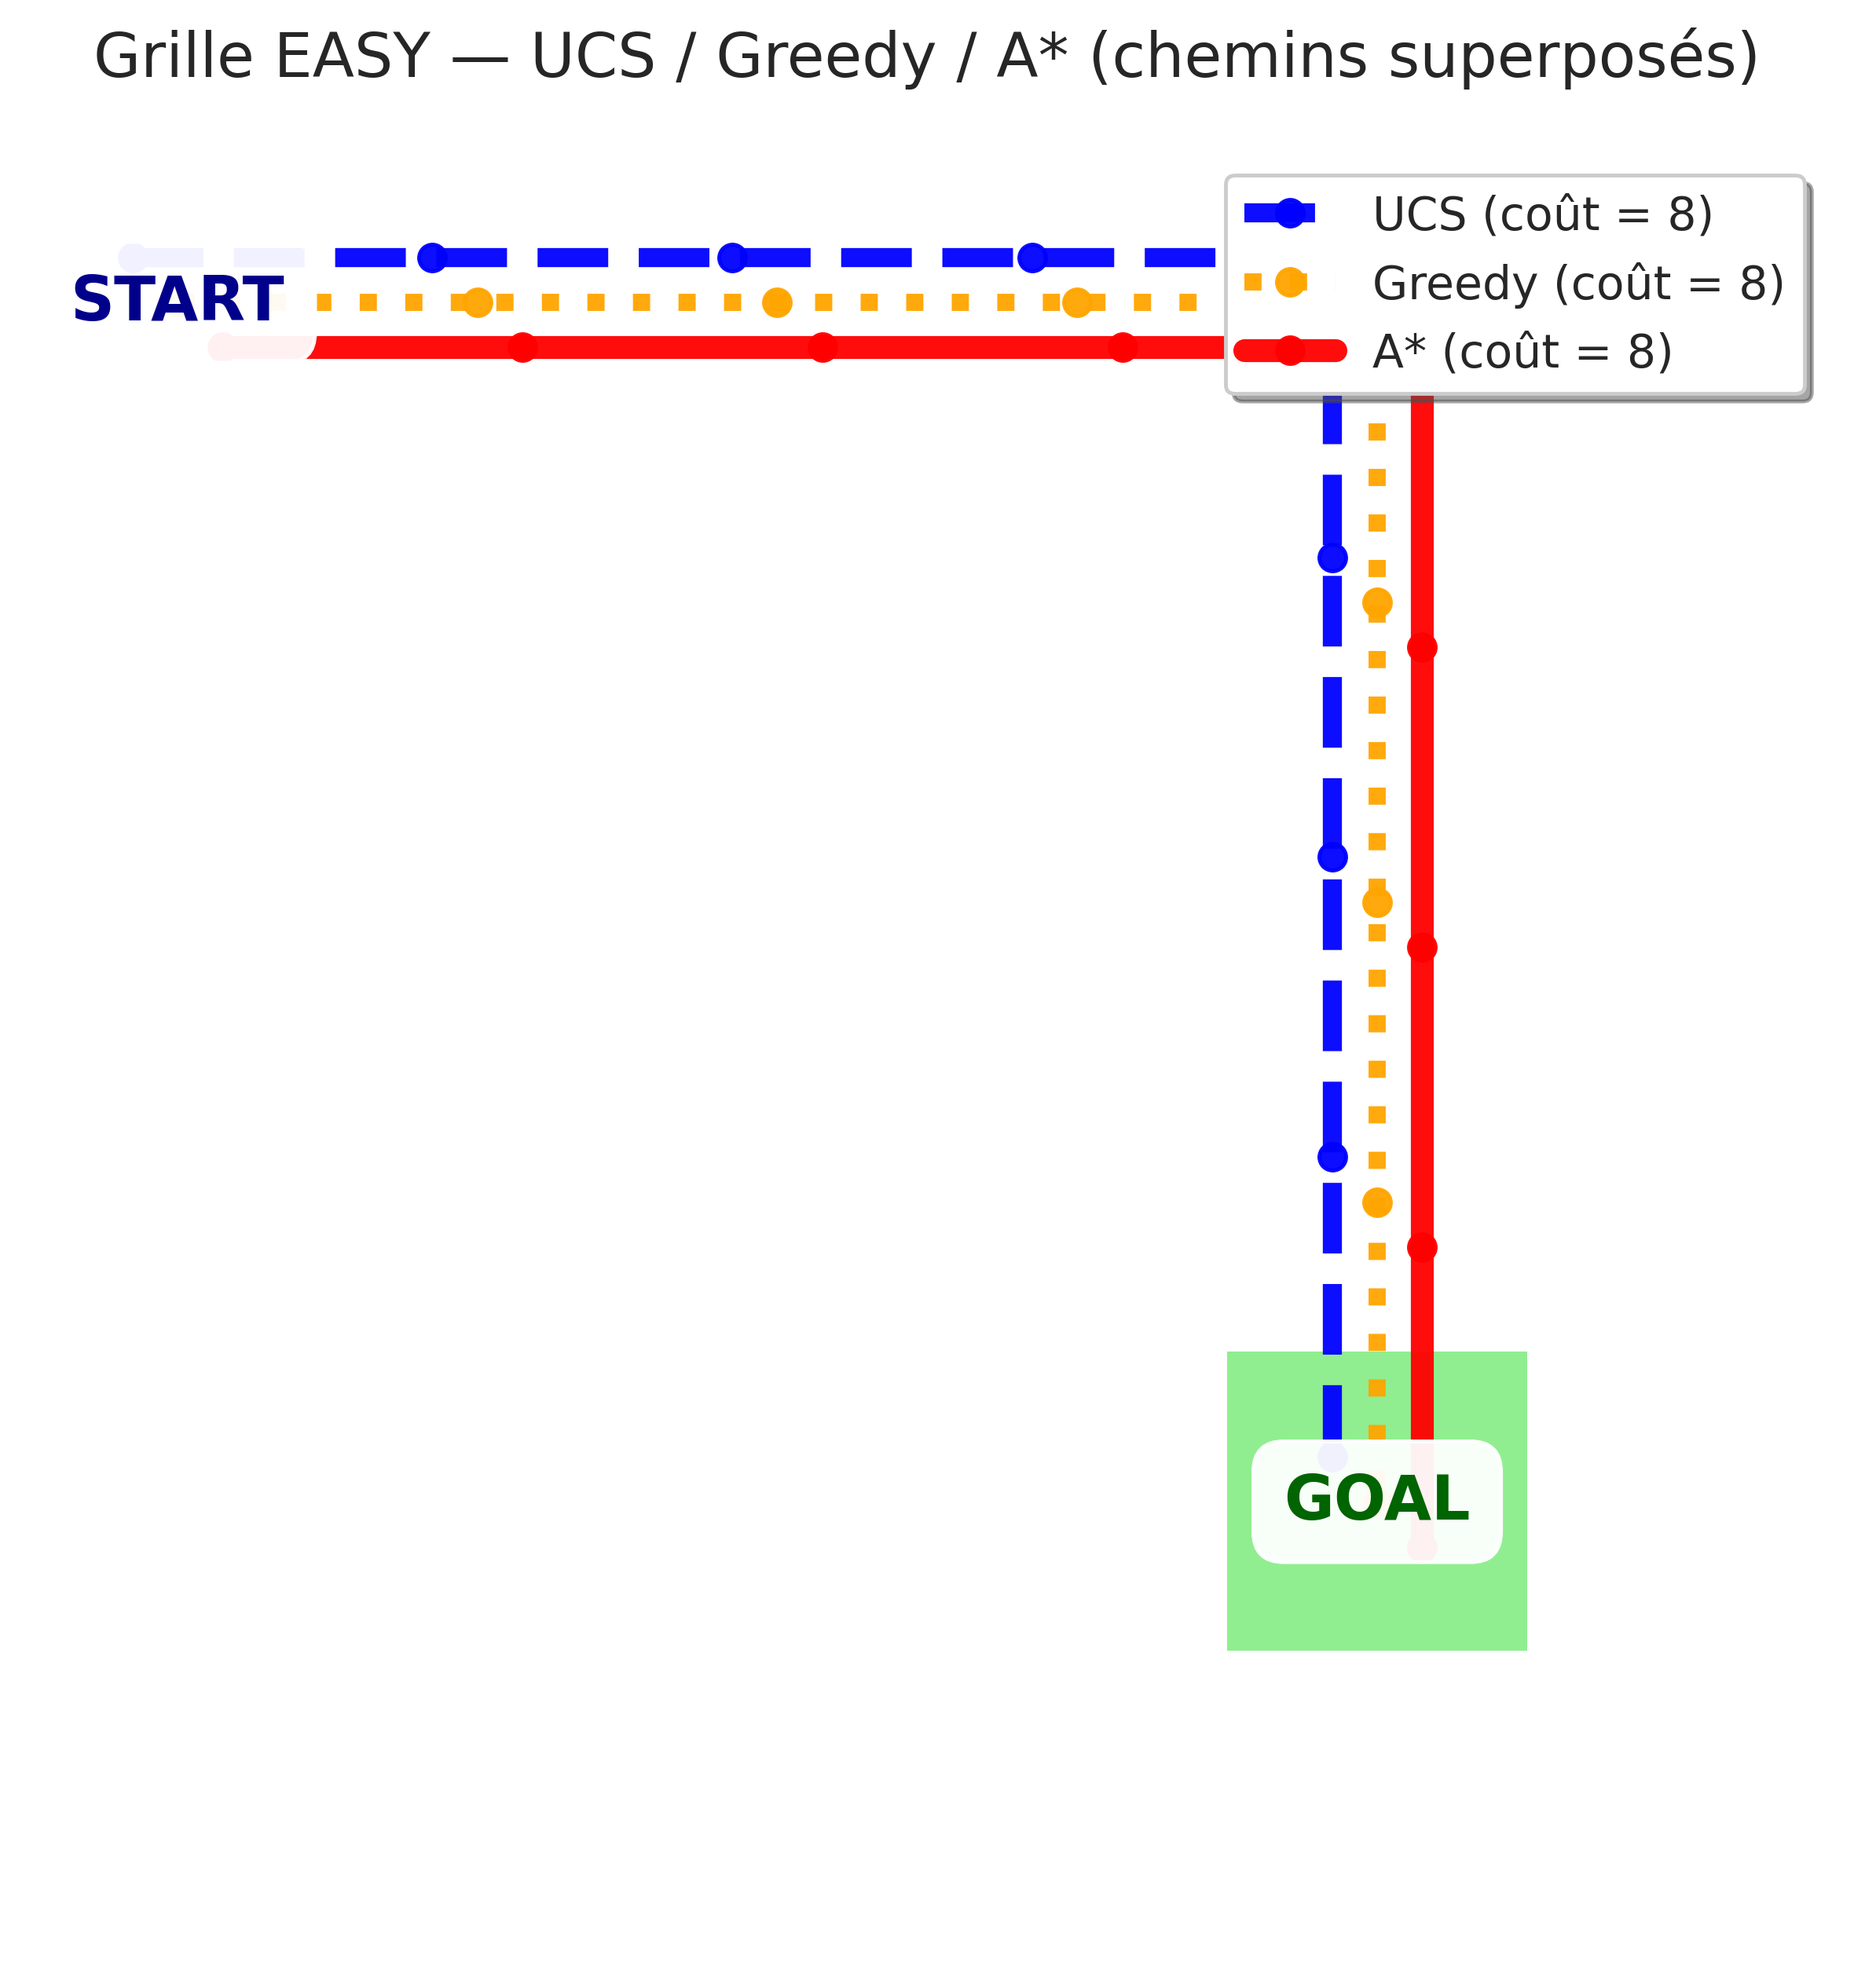
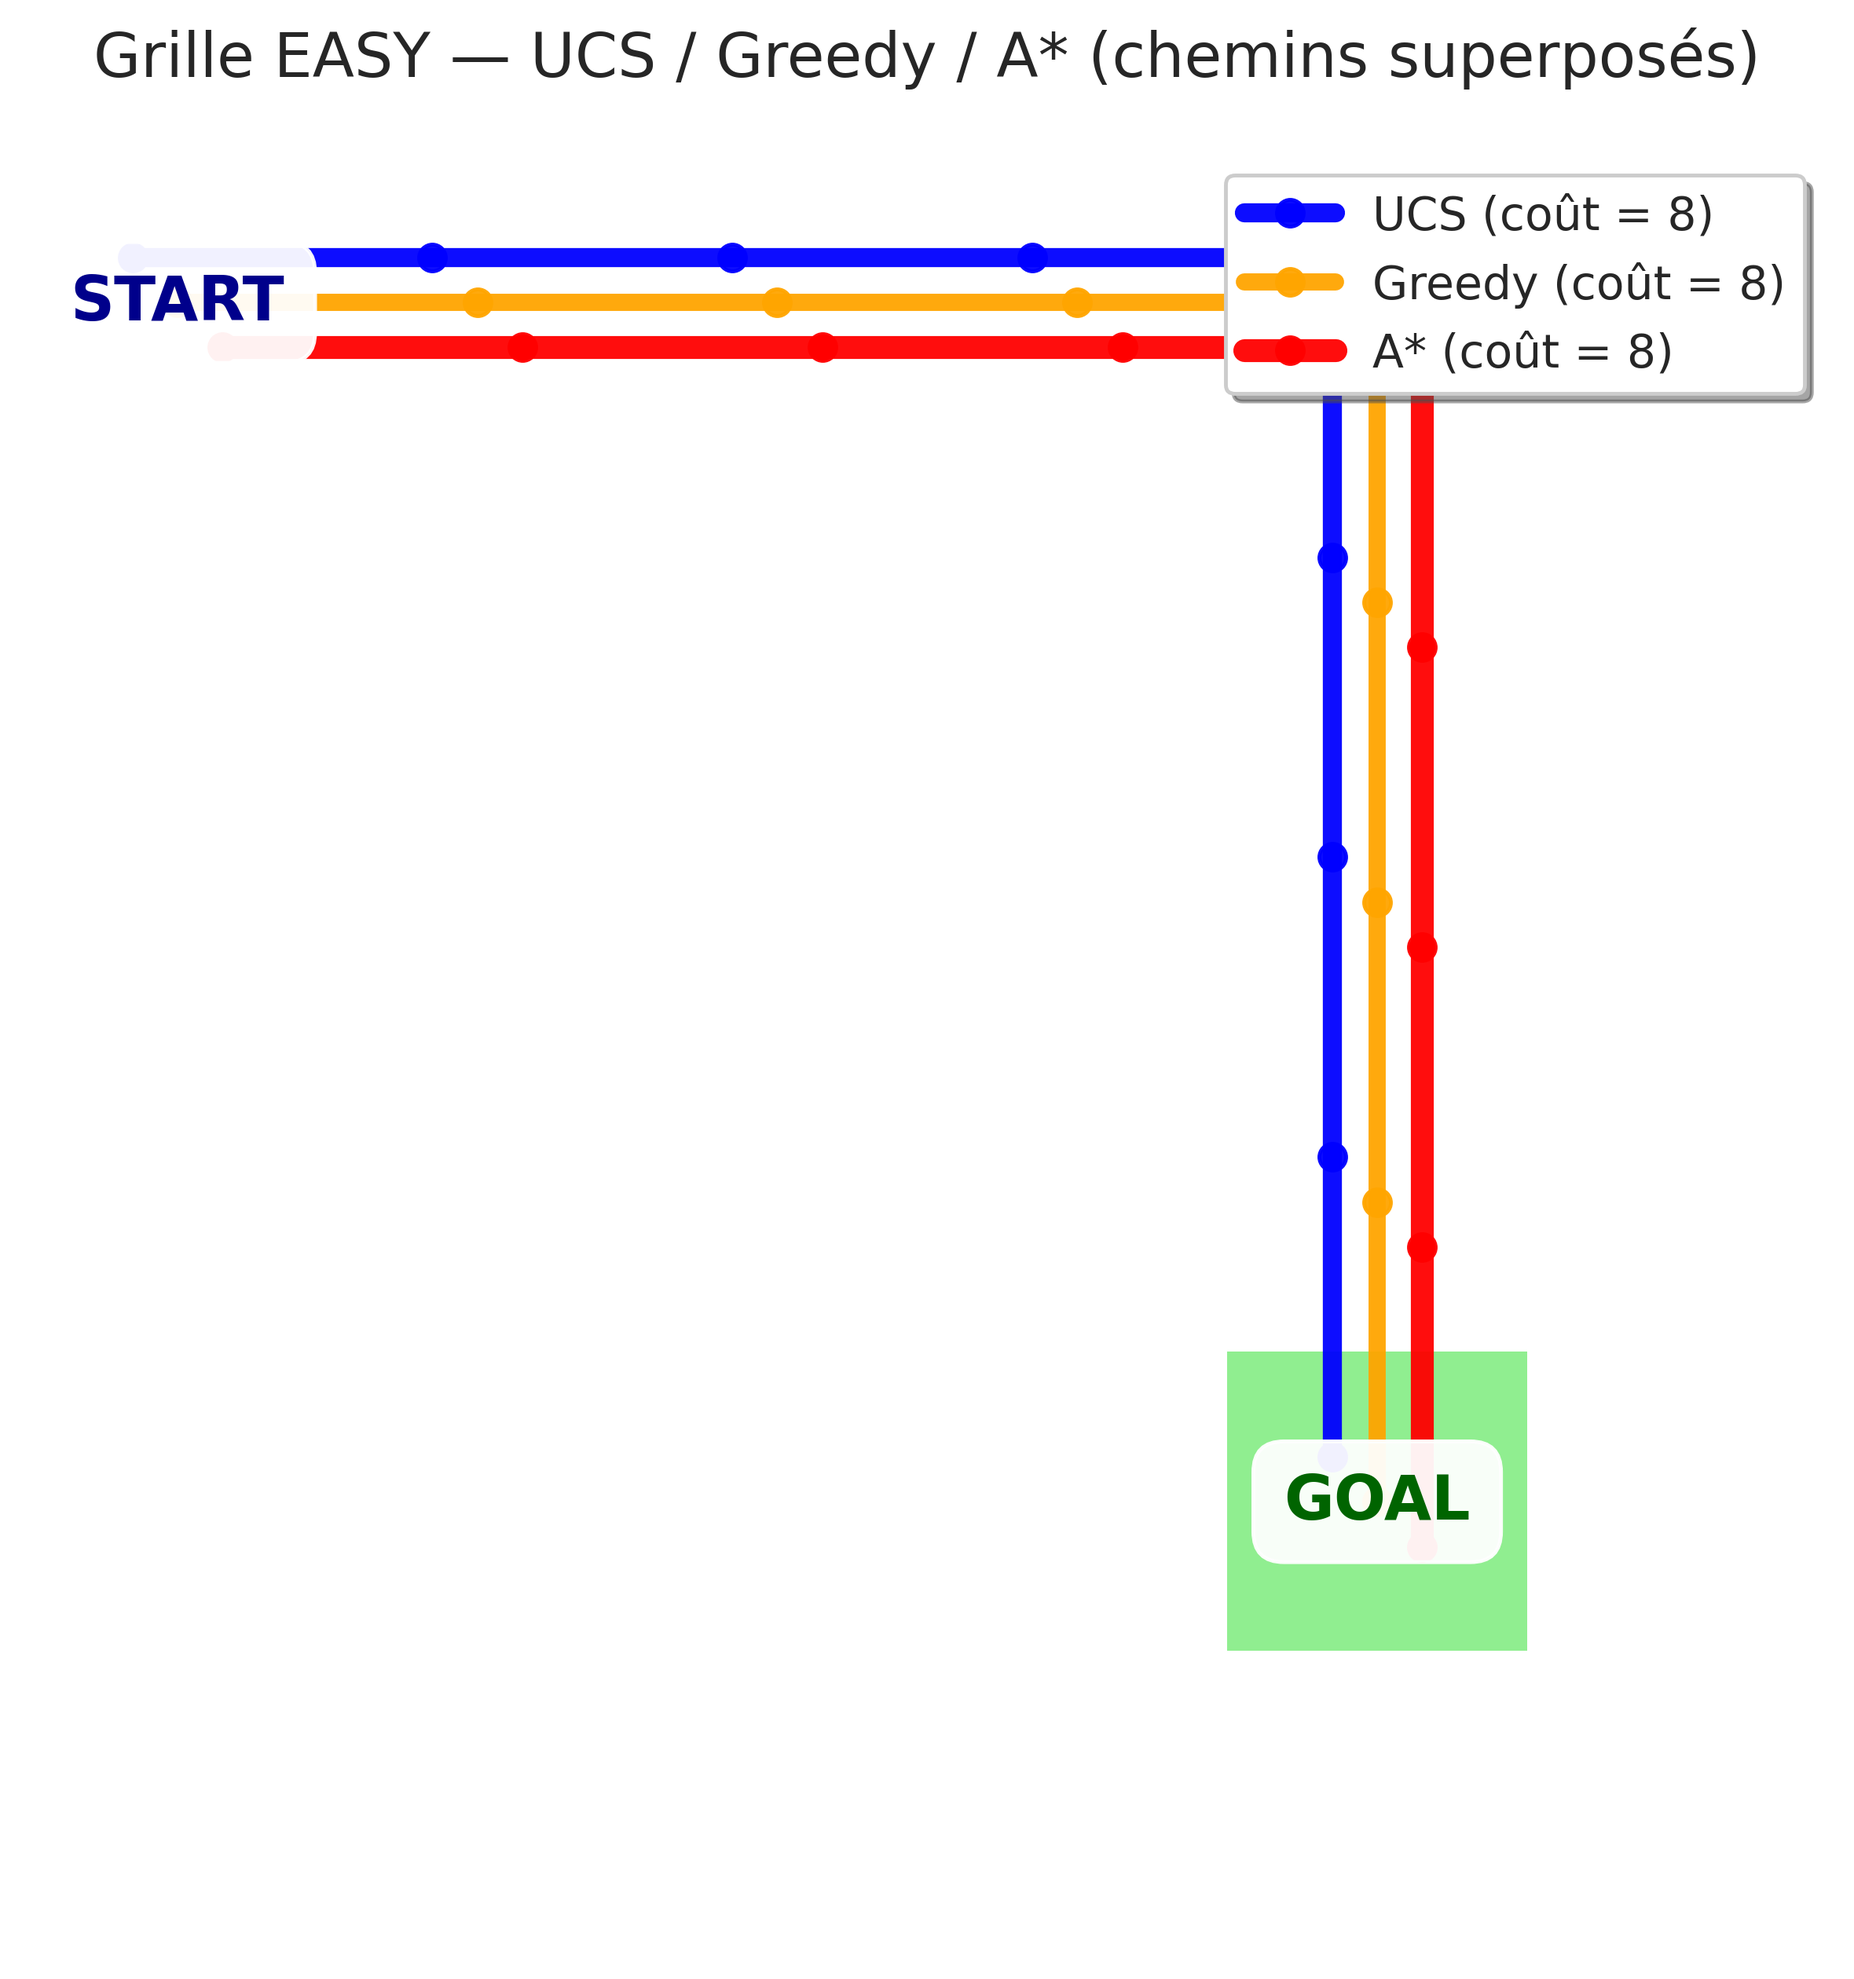
s

diff --git a/projec/main.py b/projec/main.py
@@ -71,7 +71,7 @@ def plot_plain_grid(grid, start, goal, title, filename):
     ax = plt.gca()
     ax.set_xticks(np.arange(-0.5, grid.shape[1], 1))
     ax.set_yticks(np.arange(-0.5, grid.shape[0], 1))
-    ax.grid(color='white', linestyle='-', linewidth=2)
+    ax.grid(color='white', linewidth=2)
     ax.set_xticklabels([])
     ax.set_yticklabels([])
 
@@ -103,7 +103,7 @@ def plot_all_paths(grid, paths_dict, start, goal, title, filename):
     ax = plt.gca()
     ax.set_xticks(np.arange(-0.5, grid.shape[1], 1))
     ax.set_yticks(np.arange(-0.5, grid.shape[0], 1))
-    ax.grid(color='black', linestyle='-', linewidth=2)
+    ax.grid(color='black', linewidth=2)
     ax.set_xticklabels([])
     ax.set_yticklabels([])
 
@@ -113,7 +113,7 @@ def plot_all_paths(grid, paths_dict, start, goal, title, filename):
              ha='center', va='center', bbox=dict(boxstyle="round,pad=0.5", facecolor='white', alpha=0.95))
 
     colors = {'UCS': 'blue', 'Greedy': 'orange', 'A*': 'red'}
-    linestyles = {'UCS': '--', 'Greedy': ':', 'A*': '-'}
+    linestyles = {'UCS': '-', 'Greedy': '-', 'A*': '-'}
     linewidths = {'UCS': 5, 'Greedy': 4.5, 'A*': 6}
 
     offsets = {'UCS': (-0.15, -0.15), 'Greedy': (0, 0), 'A*': (0.15, 0.15)}
